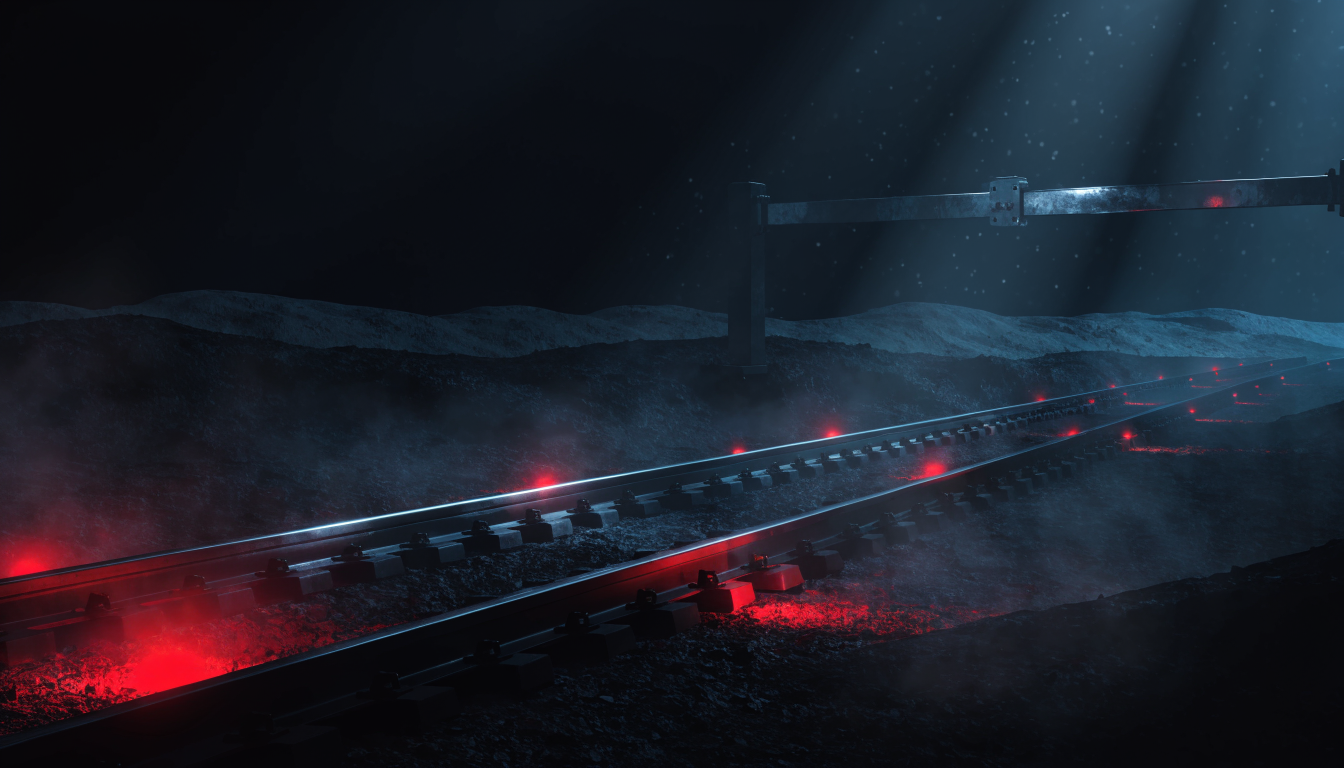
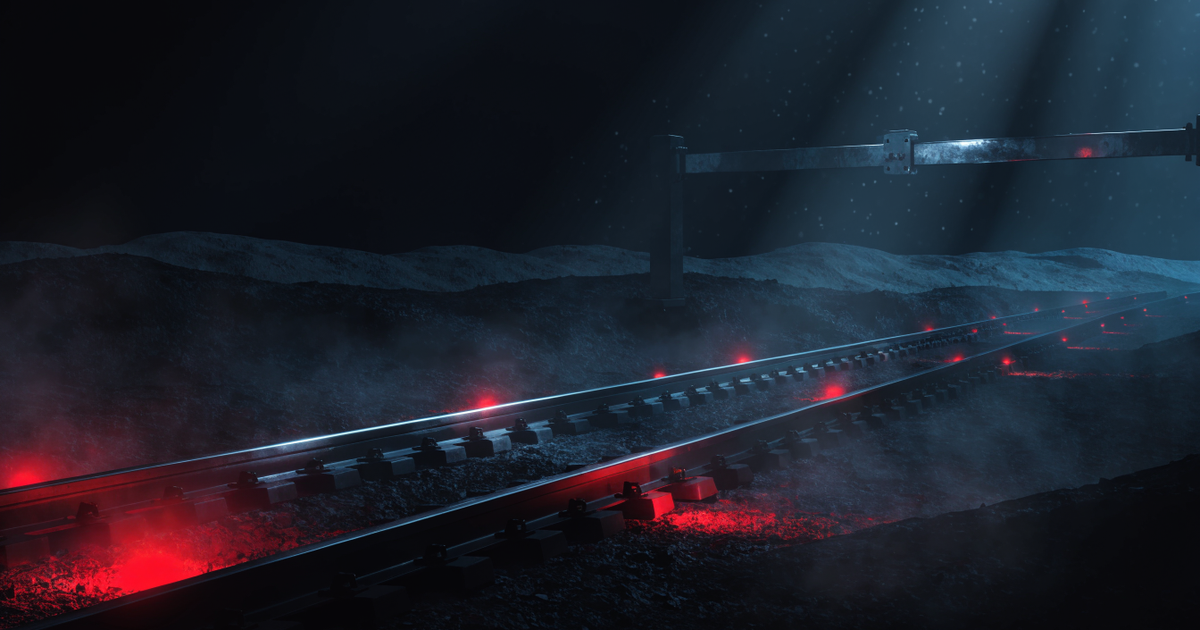
corredor-istmo: OG social (imagen + meta) para compartir el mapa

diff --git a/corredor-istmo.html b/corredor-istmo.html
@@ -32,6 +32,16 @@
 </style><style id="noital">em,i{font-style:normal !important}</style>
 <!-- SEO-AUTO start -->
 <link rel="canonical" href="https://45digitalnoticias.github.io/Inseguridad-Mexico/corredor-istmo.html">
+<meta name="description" content="El homicidio se concentró sobre la ruta del Tren Interoceánico (+72% entre 2021 y 2024) mientras el país bajaba. Datos del SESNSP, municipio por municipio, corte mayo 2026.">
+<meta property="og:type" content="article">
+<meta property="og:site_name" content="45 Digital Noticias">
+<meta property="og:title" content="Corredor Interoceánico: la violencia que siguió a la vía">
+<meta property="og:description" content="El homicidio se concentró sobre la ruta del Tren Interoceánico mientras el país bajaba. Datos del SESNSP, corte mayo 2026.">
+<meta property="og:image" content="https://45digitalnoticias.github.io/Inseguridad-Mexico/og-corredor-istmo.png">
+<meta property="og:image:width" content="1200">
+<meta property="og:image:height" content="630">
+<meta name="twitter:card" content="summary_large_image">
+<meta name="twitter:image" content="https://45digitalnoticias.github.io/Inseguridad-Mexico/og-corredor-istmo.png">
 <meta property="og:url" content="https://45digitalnoticias.github.io/Inseguridad-Mexico/corredor-istmo.html">
 <script type="application/ld+json">
 {
